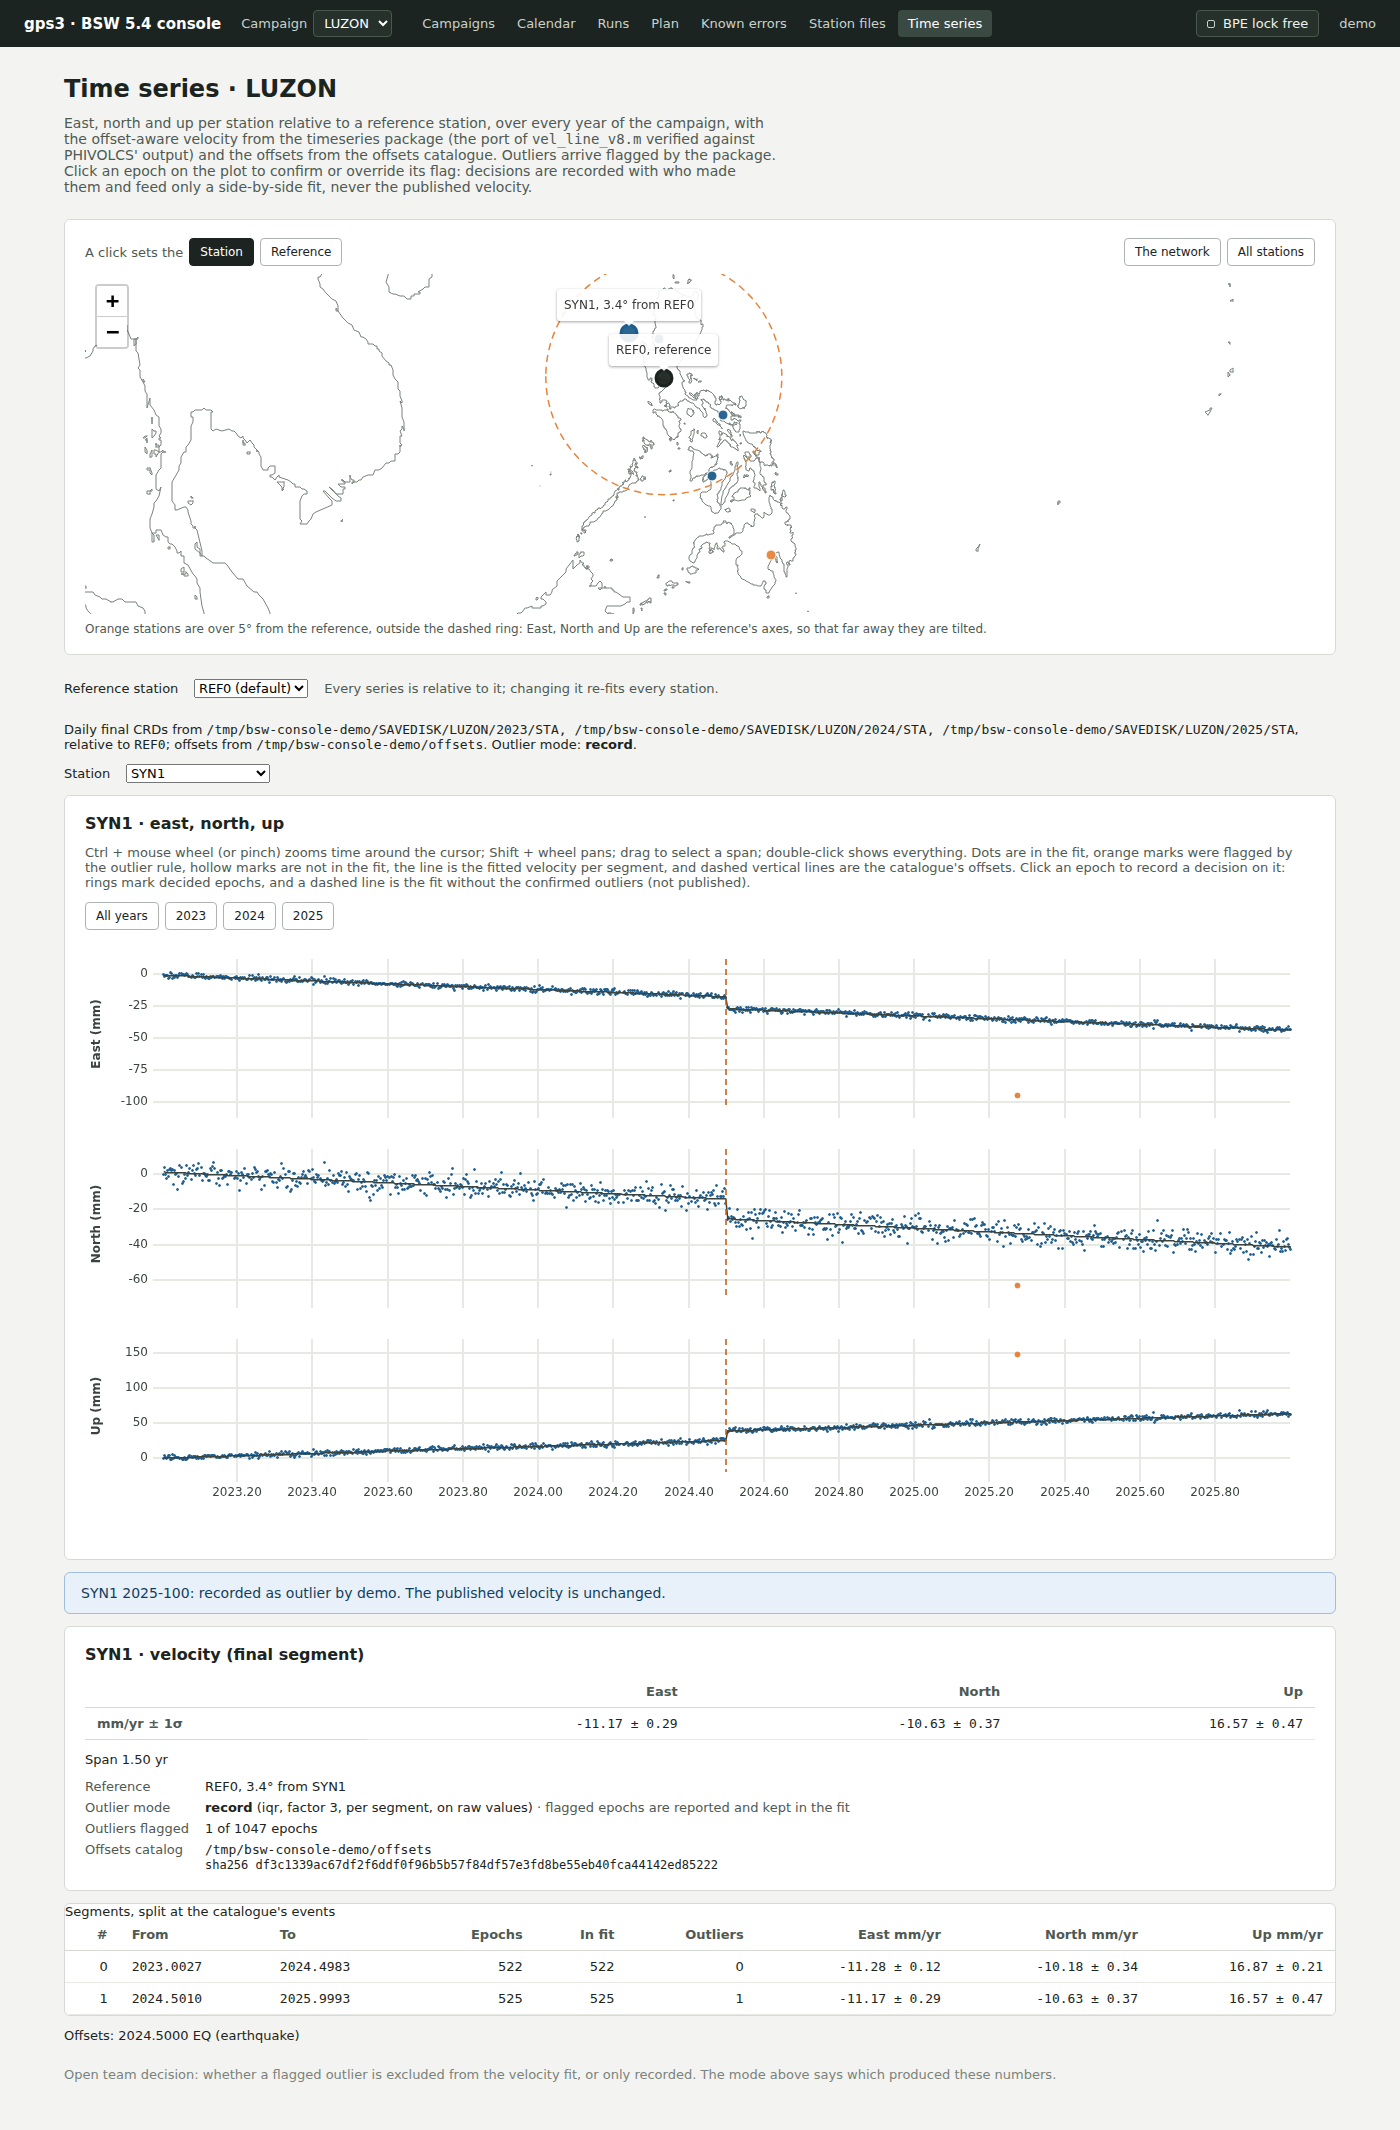
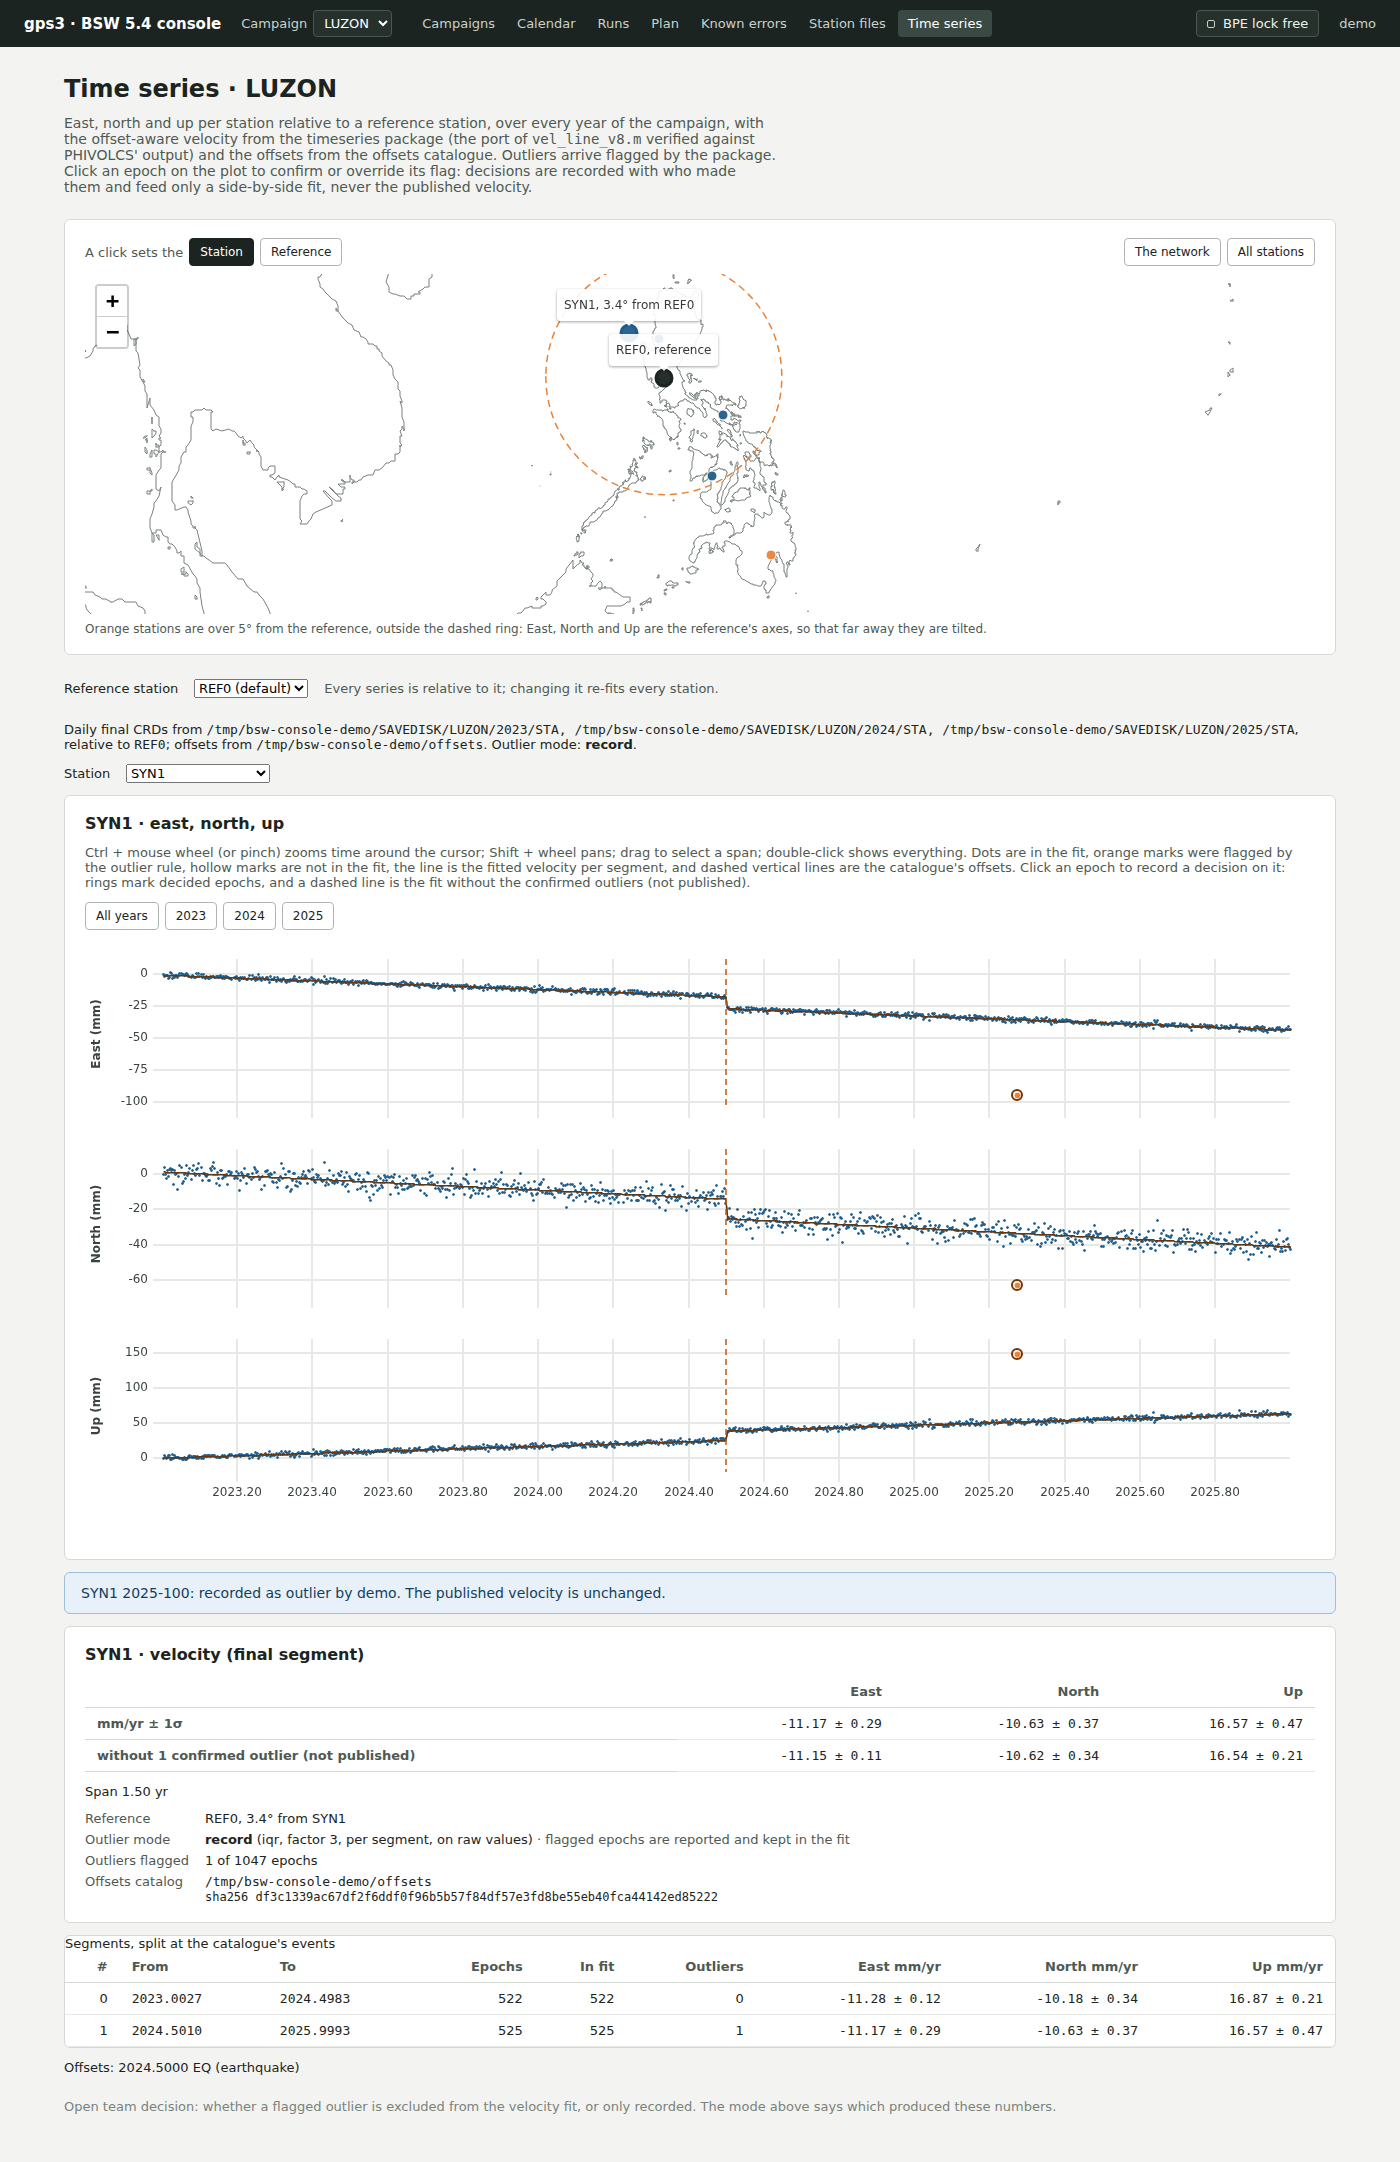
docs(console): screenshots review: wait for the real row, say what is real
The wait for "(not published)" always passed, because the plot's help text has the
same words, so time_series.png was shot before the page reloaded and had no ring.
It now waits for the velocity row, and the image is retaken. The Campaigns and
Known errors shots waited for nav labels; they now wait for text on those pages.
The script's header names both real items, and the instruction says the map opens
on the stations near the middle of the network.

diff --git a/scripts/console_screenshots.py b/scripts/console_screenshots.py
@@ -13,9 +13,11 @@ an image is published. The console runs here on the test suite's made-up tree
 (services/bsw-console/tests/conftest.py) plus a made-up time series below, in a
 scratch folder, on a free port, with its own state, signed in as "demo". It never
 reads gps3's data and cannot queue a real run or write to the real decision record.
-One thing on screen is real: the Failure page's protocol file is the HELMR1 failure
+Two things on screen are real: the Failure page's protocol file is the HELMR1 failure
 captured from LZY250360, a fixture already committed under
-services/bernese-workflow/tests/fixtures/bpe_errors, with gps3's paths in it.
+services/bernese-workflow/tests/fixtures/bpe_errors, with gps3's paths in it, and the
+Known errors page lists the entries of config/bernese/bpe_errors.yaml, with made-up
+counts.
 """
 
 from __future__ import annotations
@@ -88,7 +90,8 @@ def _xyz(lat: float, lon: float) -> tuple[float, float, float]:
 
 def time_series(savedisk: Path, root: Path) -> Path:
     """Three years of noisy daily positions for a made-up station, one step at an
-    earthquake and one large spike. Seeded, so a retake draws the same plot."""
+    earthquake and one large spike, beside REF0 and OTHERS, which do not move. Seeded,
+    so a retake draws the same plot."""
     rng = random.Random(20261105)
     others = {code: _xyz(*where) for code, where in OTHERS.items()}
     for old in ("2020", "2021"):
@@ -244,18 +247,23 @@ def shoot(page: Page, url: str, route: str, out: Path, wait_for: str, click_day:
     print(f"{out}  {out.stat().st_size // 1024} KB")
 
 
+def pick_station(page: Page, code: str) -> None:
+    """The Station dropdown. "Reference station" matches the label too, and comes first."""
+    page.locator("label", has_text="Station").locator("select").last.select_option(code)
+
+
 def map_shots(page: Page, url: str, out: Path) -> None:
     """The map with its ring around a nearby reference, then a far reference: every
     station orange and the warning above the plot. Nothing here records a decision."""
     open_route(page, url, f"#/c/LUZON/{YEAR}/time-series")
     # SYN5 is outside the ring, and far enough from REF0 for both labels to read.
-    page.locator("label", has_text="Station").locator("select").last.select_option("SYN5")
+    pick_station(page, "SYN5")
     page.wait_for_selector("[data-testid=ts-plot] canvas", timeout=20000)
     page.wait_for_load_state("networkidle")
     panel = page.get_by_role("region", name="Map of the stations")
     page.wait_for_timeout(600)  # the map's move to its opening view is animated
     panel.screenshot(path=out / "station_map.png")
-    page.locator("label", has_text="Station").locator("select").last.select_option("SYN1")
+    pick_station(page, "SYN1")
     page.locator("label", has_text="Reference station").locator("select").select_option("FAR1")
     panel.get_by_role("button", name="All stations").click()
     banner = page.locator(".banner.warn").first
@@ -303,7 +311,7 @@ def time_series_shots(page: Page, url: str, out: Path) -> None:
     """The decision form on the flagged spike, then the whole page once it is
     recorded, on this scratch console, so the ring and the not-published fit show."""
     open_route(page, url, f"#/c/LUZON/{YEAR}/time-series")
-    page.locator("label", has_text="Station").locator("select").last.select_option("SYN1")
+    pick_station(page, "SYN1")
     page.wait_for_selector("[data-testid=ts-plot] canvas", timeout=20000)
     page.wait_for_load_state("networkidle")
     page.get_by_role("button", name=str(SPIKE[0]), exact=True).click()
@@ -327,7 +335,9 @@ def time_series_shots(page: Page, url: str, out: Path) -> None:
         path=out / "outlier_decision.png"
     )
     page.get_by_role("button", name="Confirm outlier").click()
-    page.get_by_text("(not published)").first.wait_for(timeout=20000)
+    # The velocity row, which comes with the reload. The same words are in the plot's
+    # help text, on screen all along, so waiting for them alone shoots the page too early.
+    page.locator("th", has_text="not published").wait_for(timeout=20000)
     page.get_by_role("button", name="All years").click()
     page.wait_for_timeout(300)
     page.screenshot(path=out / "time_series.png", full_page=True)
@@ -352,8 +362,14 @@ def main() -> int:
             )
             page = context.new_page()
             base = f"#/c/LUZON/{YEAR}"
-            shoot(page, url, "#/", args.out / "campaigns.png", "Campaigns")
-            shoot(page, url, "#/known-errors", args.out / "known_errors.png", "Known errors")
+            shoot(page, url, "#/", args.out / "campaigns.png", "Recent activity")
+            shoot(
+                page,
+                url,
+                "#/known-errors",
+                args.out / "known_errors.png",
+                "The list the run looks failures up in",
+            )
             shoot(page, url, base, args.out / "calendar.png", "Fixed", click_day=36)
             shoot(
                 page,

diff --git a/docs/bsw_console_work_instruction_draft.md b/docs/bsw_console_work_instruction_draft.md
@@ -274,7 +274,7 @@ segment under the one-year minimum shows crossed out.
 | 6.2 note: horizontal only, usually | Unchanged. The page shows Up as well; read it with the same care |
 | 6.3 Outlier removal: `outlier_input-site.py`, right-click, hand-edit PLOT files, re-run MATLAB | Click an epoch on the plot; a drag doesn't pick one. A small popup opens beside the point, with the rule's flag and any decision so far. A flagged epoch offers **Confirm outlier**, or **Keep it: not an outlier** with a reason. An unflagged one offers **Mark as outlier** with a reason. **Undo decision** takes a decision back. Recording closes the popup, so you can go straight to the next epoch; Escape, the close button or a click elsewhere closes it too. Each decision is kept with your name, the reference station and a hash of the day's CRD files, and no file is edited. Rings mark decided epochs. A dashed line and a row marked "not published" show the fit without the confirmed outliers. A decision made against another reference station, or on a day since reprocessed, is shown as such and not applied. The page's outlier mode stays `record`: flagged epochs are reported and kept in the fit. Decisions don't reach PLOT files or production plots; for those, keep using `tools/velocity-reviewer` |
 
-The map opens on the campaign's own stations. The dashed ring is 5 degrees around
+The map opens on the stations near the middle of the network. The dashed ring is 5 degrees around
 the reference, and stations outside it are orange. **All stations** also brings in
 the far ones.
 
